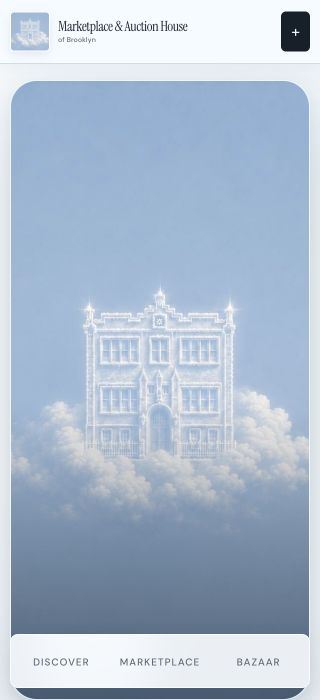
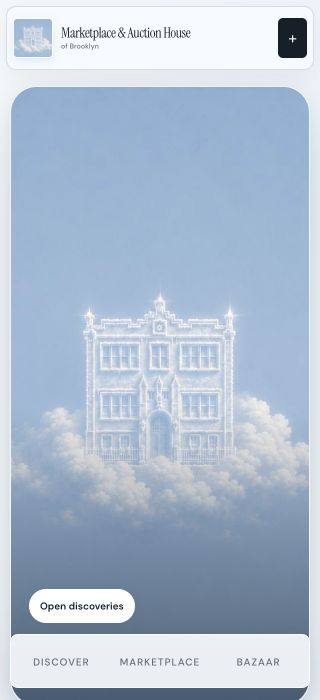
Refine inset header and hero action

diff --git a/styles.css b/styles.css
@@ -122,19 +122,19 @@ h2 {
 
 .topbar {
   position: sticky;
-  top: 0;
+  top: 10px;
   z-index: 100;
   display: grid;
   grid-template-columns: 1fr auto 1fr;
   align-items: center;
-  width: 100%;
+  width: min(calc(100% - 24px), 1480px);
   min-height: 72px;
-  margin: 0;
-  padding: 9px max(18px, calc((100% - 1360px) / 2));
-  border: 0;
-  border-bottom: 1px solid var(--line);
+  margin: 10px auto 0;
+  padding: 9px max(16px, calc((100% - 1360px) / 2));
+  border: 1px solid rgba(65, 94, 113, 0.18);
+  border-radius: 12px;
   background: rgba(244, 249, 252, 0.94);
-  box-shadow: 0 4px 18px rgba(44, 74, 94, 0.05);
+  box-shadow: 0 7px 26px rgba(44, 74, 94, 0.08);
   backdrop-filter: blur(16px);
 }
 
@@ -358,8 +358,23 @@ h2 {
 }
 
 .hero .button--light {
+  position: relative;
+  min-height: 34px;
+  padding: 7px 13px;
   border-radius: 999px;
   box-shadow: 0 8px 24px rgba(55, 92, 122, 0.12), 0 2px 5px rgba(55, 92, 122, 0.06);
+  font-size: 10px;
+  line-height: 1;
+}
+
+.hero .button--light::before {
+  position: absolute;
+  top: 50%;
+  left: 50%;
+  width: max(100%, 44px);
+  height: 44px;
+  transform: translate(-50%, -50%);
+  content: "";
 }
 
 .hero .button:hover {
@@ -1638,7 +1653,13 @@ h2 {
 
 @media (max-width: 1080px) {
   .topbar {
+    top: 8px;
     grid-template-columns: 1fr auto;
+    width: calc(100% - 20px);
+    margin-top: 8px;
+    padding-right: 8px;
+    padding-left: 8px;
+    border-radius: 11px;
     background: rgba(244, 251, 255, 0.96);
     backdrop-filter: none;
   }
@@ -1675,12 +1696,12 @@ h2 {
 
 @media (max-width: 760px) {
   .topbar {
-    top: 0;
-    width: 100%;
+    top: 6px;
+    width: calc(100% - 12px);
     min-height: 64px;
-    margin-top: 0;
-    padding: 7px 10px;
-    border-radius: 0;
+    margin-top: 6px;
+    padding: 7px 6px;
+    border-radius: 10px;
   }
 
   .brand {
@@ -1764,9 +1785,10 @@ h2 {
     left: 18px;
   }
 
-  .hero .button {
-    min-height: 48px;
-    padding: 12px 16px;
+  .hero .button--light {
+    min-height: 34px;
+    padding: 7px 12px;
+    font-size: 10px;
   }
 
   .section {
@@ -2097,14 +2119,20 @@ h2 {
     gap: 7px;
   }
 
-  .hero .button {
-    padding-right: 13px;
-    padding-left: 13px;
-    font-size: 12px;
+  .hero .button--light {
+    padding-right: 11px;
+    padding-left: 11px;
+    font-size: 10px;
   }
 
   .discovery-card__meta {
     display: grid;
+  }
+}
+
+@media (max-width: 390px) and (max-height: 760px) {
+  .hero__copy {
+    bottom: 82px;
   }
 }
 

diff --git a/DESIGN.md b/DESIGN.md
@@ -15,7 +15,7 @@ The marketplace pairs auction-house discipline with a pale-blue, pixelated schoo
 - the supplied school image as the singular atmospheric signature;
 - one concrete home action: **Open discoveries**.
 
-The home composition is restored directly from release **v1.0.1** (`8e59181`): the supplied school image fills a card up to 720px tall on desktop and becomes a 660px / 620px portrait card on phone. The header stays flush to the top edge and the page background remains continuous; the later checker field, inset gap, catalogue-sheet wrappers, compact square school plate, and hero identity column are intentionally absent.
+The home composition is restored directly from release **v1.0.1** (`8e59181`): the supplied school image fills a card up to 720px tall on desktop and becomes a 660px / 620px portrait card on phone. The sticky header now floats inside a narrow reveal of the continuous celestial field. This isolated inset does not restore the later checker field, catalogue-sheet wrappers, compact square school plate, or hero identity column.
 
 The current official [Sotheby’s](https://www.sothebys.com/en/) presentation informed the clear auction/exhibition hierarchy and concise date, location, format, estimate, and status patterns. The current official [Christie’s](https://www.christies.com/en) presentation informed the editorial scale, generous negative space, fine rules, and disciplined auction-calendar structure. The marketplace translates those traits into its own curator desk; it does not reproduce either company’s trade dress, content, or layouts.
 
@@ -46,7 +46,7 @@ Controls state exactly what happens. Missing credentials and contracts appear as
 
 ## Responsive behavior
 
-Desktop uses the restored v1.0.1 main card at up to 720px tall, three-column catalogues, and paired work-detail surfaces. Tablet collapses primary navigation into a floating bottom surface while preserving two-column catalogues. Phone layouts use the historical 660px card (620px at 390px and below), one-column catalogues, a flush sticky header, and thumb-reachable curator destinations. Visible targets are at least 44px, horizontal overflow is suppressed and tested down to 320px, and motion respects `prefers-reduced-motion`.
+Desktop uses the restored v1.0.1 main card at up to 720px tall, three-column catalogues, and paired work-detail surfaces. Tablet collapses primary navigation into a floating bottom surface while preserving two-column catalogues. Phone layouts use the historical 660px card (620px at 390px and below), one-column catalogues, a rounded inset sticky header, and thumb-reachable curator destinations. Interactive targets remain at least 44px even where the hero pill has a deliberately smaller visible face; horizontal overflow is suppressed and tested down to 320px, and motion respects `prefers-reduced-motion`.
 
 ## Assets
 

diff --git a/CHANGELOG.md b/CHANGELOG.md
@@ -9,6 +9,14 @@ All notable changes to Marketplace & Auction House of Brooklyn are recorded here
 - Provider-approved Instagram and X OAuth apps.
 - Authoritative wallet, mint, card, inventory, and fulfillment integrations.
 
+## 1.0.6 - 2026-08-25
+
+### Changed
+
+- Inset the sticky header inside a narrow reveal of the existing celestial field at every breakpoint.
+- Reduced the visible **Open discoveries** pill by roughly one third while retaining a 44px interaction target.
+- Preserved the restored v1.0.1 hero geometry and all current product and integration behavior.
+
 ## 1.0.5 - 2026-08-25
 
 ### Changed
